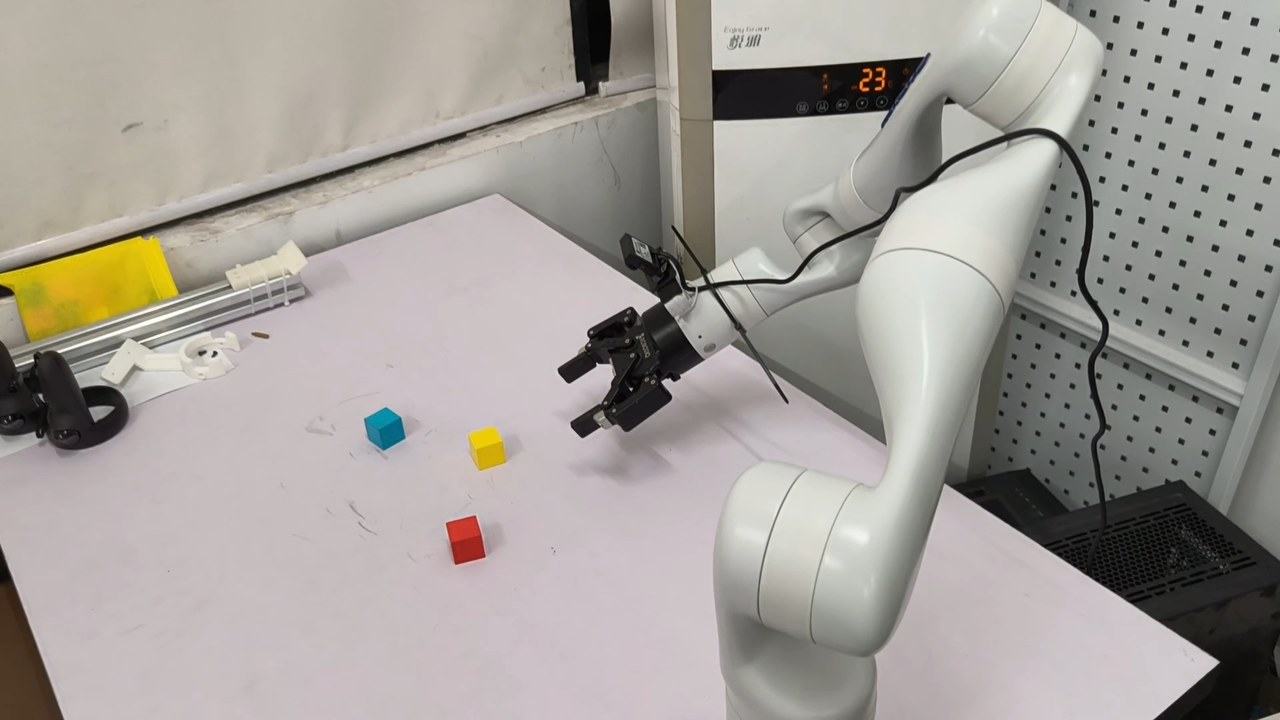
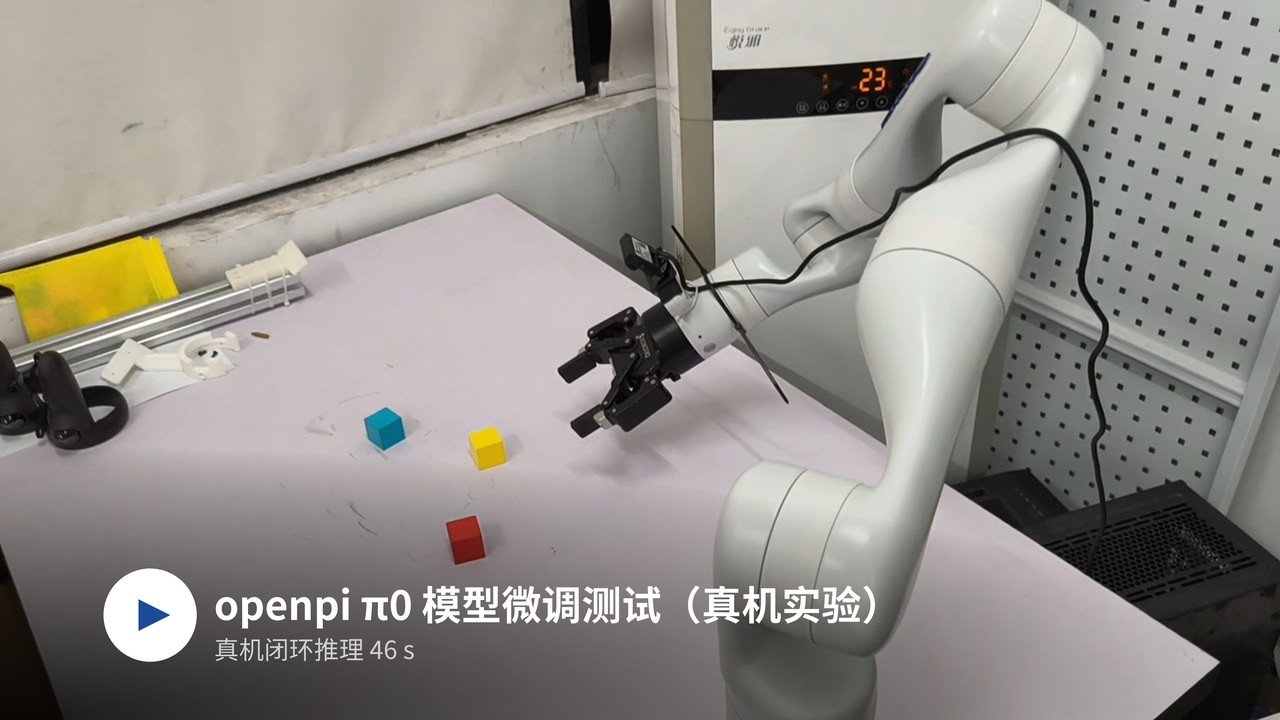
docs: 封面改成 B 站风格左下角角标（小播放键 + 标题 + 时长）
- 真机封面按仿真封面同一版式重做：播放圆 d=93 @ (150,615)，标题 40px 粗体，
  副标题 25px 灰，左边界 x=214
- 删掉上一版居中大播放键的两张图

Changed region(s): [[0.0, 0.6417, 0.9375, 1.0]]

diff --git a/README.md b/README.md
@@ -13,11 +13,11 @@
 
 ### 真机实验
 
-[![真机实验演示](video/bilibili_cover_real_play.jpg)](https://www.bilibili.com/video/BV1PvxF66E8r)
+[![真机实验演示](video/bilibili_cover_real.jpg)](https://www.bilibili.com/video/BV1PvxF66E8r)
 
 ### 仿真
 
-[![仿真演示](video/bilibili_cover_play.jpg)](https://www.bilibili.com/video/BV1AEnw6hEEC)
+[![仿真演示](video/bilibili_cover.jpg)](https://www.bilibili.com/video/BV1AEnw6hEEC)
 
 ---
 
